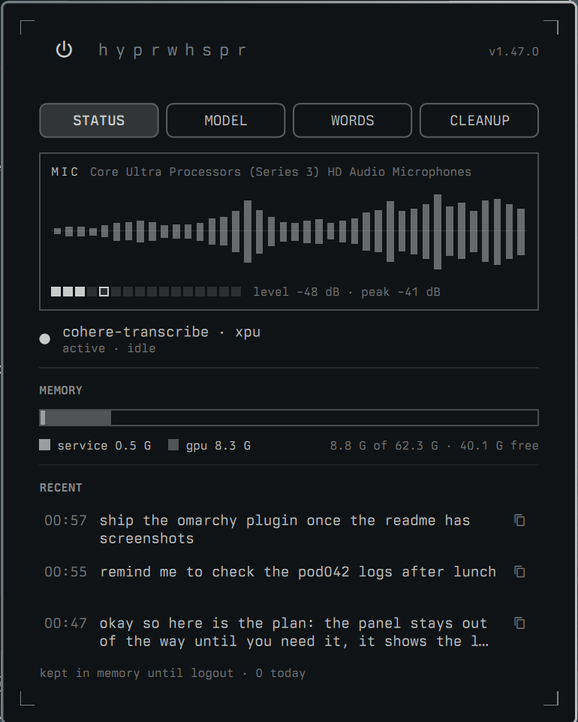
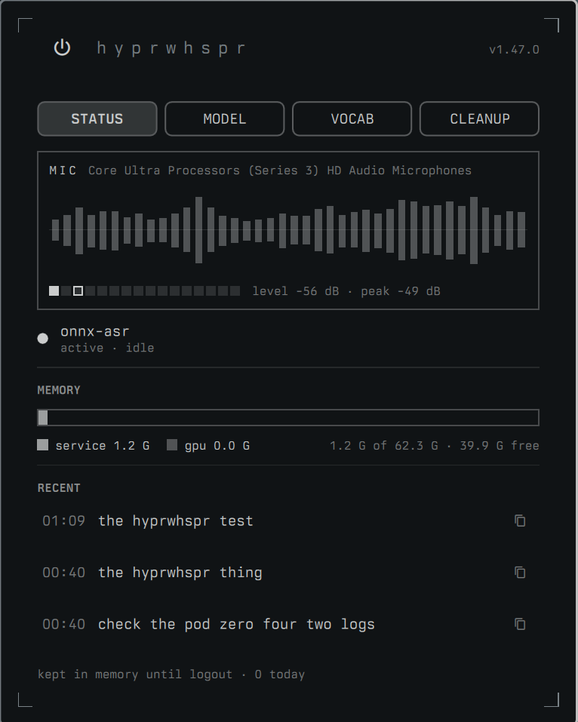
Rename Words to Vocab and fix lost vocab edits
Applying a change wrote the config through FileView.setText, which fires
no onLoaded for the panel's own write, so the next apply wrote the stale
config back and dropped earlier words. Read the written text back.

- Vocab: misheard field always visible, dimmed until used; no count line;
  row stays highlighted while hovering its trash can
- Status: fixed-height recent rows with immediate selection and wheel
  scrolling for long transcripts; teach popup opens upward near the edge
- bin/status no longer exits early when the service holds no GPU memory
- Status label drops the separator for backends without a device
- IPC function show renamed to open; qs reserves "show"

Amp-Thread-ID: https://ampcode.com/threads/T-01a10e96-e828-759a-843a-4dbf6fff79f1

diff --git a/StatusPage.qml b/StatusPage.qml
@@ -9,16 +9,7 @@ Column {
   required property var panel
   readonly property var status: panel.status
   readonly property var memory: status ? status.memory : null
-  // The RECENT row shown in full, or -1.
-  property int expanded: -1
   readonly property real rowPadding: Style.space(4)
-
-  function collapsedHeight(lines) { return lines * bodyMetrics.height + 2 * rowPadding }
-
-  Connections {
-    target: page.panel
-    function onRecentChanged() { page.expanded = -1 }
-  }
 
   FontMetrics {
     id: bodyMetrics
@@ -47,7 +38,7 @@ Column {
     Column {
       Text {
         text: page.status
-          ? page.panel.committed.backend + " · " + page.panel.committed.device
+          ? [page.panel.committed.backend, page.panel.committed.device].filter(Boolean).join(" · ")
           : "probing…"
         color: page.panel.fg
         font.family: page.panel.fontFamily
@@ -157,11 +148,13 @@ Column {
     fontFamily: page.panel.fontFamily
   }
 
-  // A fixed height, so expanding a transcript never resizes the panel.
+  // Rows never resize, so a click selects text where it lands; a long
+  // transcript scrolls inside its row.
   Item {
     id: recentBox
     width: parent.width
-    height: 3 * page.collapsedHeight(2) + 2 * recentList.spacing
+    height: 3 * entryHeight + 2 * recentList.spacing
+    readonly property real entryHeight: 2 * bodyMetrics.height + 2 * page.rowPadding
 
     Text {
       visible: page.panel.recent.length === 0
@@ -182,28 +175,16 @@ Column {
         Item {
           id: entry
           required property var modelData
-          required property int index
-          readonly property bool expanded: page.expanded === index
-          readonly property int others: page.panel.recent.length - 1
 
           width: recentList.width
-          height: expanded
-            ? Math.min(recentBox.height - others * (page.collapsedHeight(1) + recentList.spacing),
-                       body.contentHeight + 2 * page.rowPadding)
-            : page.collapsedHeight(page.expanded >= 0 ? 1 : 2)
+          height: recentBox.entryHeight
 
           Rectangle {
             anchors.fill: parent
-            color: entry.expanded || rowHover.containsMouse ? Style.hoverFillFor(page.panel.fg, Color.accent) : "transparent"
+            color: rowHover.hovered ? Style.hoverFillFor(page.panel.fg, Color.accent) : "transparent"
           }
 
-          MouseArea {
-            id: rowHover
-            anchors.fill: parent
-            hoverEnabled: true
-            cursorShape: entry.expanded ? Qt.ArrowCursor : Qt.PointingHandCursor
-            onClicked: page.expanded = entry.expanded ? -1 : entry.index
-          }
+          HoverHandler { id: rowHover }
 
           Text {
             id: time
@@ -215,22 +196,8 @@ Column {
             font.pixelSize: Style.font.body
           }
 
-          Text {
-            anchors.left: time.right
-            anchors.leftMargin: Style.space(10)
-            anchors.right: copy.left
-            y: page.rowPadding
-            visible: !entry.expanded
-            text: entry.modelData.text
-            wrapMode: Text.Wrap
-            maximumLineCount: page.expanded >= 0 ? 1 : 2
-            elide: Text.ElideRight
-            color: page.panel.fg
-            font.family: page.panel.fontFamily
-            font.pixelSize: Style.font.body
-          }
-
           Flickable {
+            id: scroller
             anchors.left: time.right
             anchors.leftMargin: Style.space(10)
             anchors.right: copy.left
@@ -238,10 +205,17 @@ Column {
             anchors.bottom: parent.bottom
             anchors.topMargin: page.rowPadding
             anchors.bottomMargin: page.rowPadding
-            visible: entry.expanded
             clip: true
+            interactive: false
             contentHeight: body.contentHeight
             boundsBehavior: Flickable.StopAtBounds
+
+            WheelHandler {
+              onWheel: function(event) {
+                scroller.contentY = Math.max(0, Math.min(scroller.contentHeight - scroller.height,
+                                                         scroller.contentY - event.angleDelta.y / 2))
+              }
+            }
 
             TextEdit {
               id: body
@@ -255,18 +229,29 @@ Column {
               selectedTextColor: page.panel.fg
               font.family: page.panel.fontFamily
               font.pixelSize: Style.font.body
+              onActiveFocusChanged: if (!activeFocus && !teach.opened) deselect()
 
               // Passive, so the TextEdit still makes the selection.
               PointHandler {
                 onActiveChanged: if (!active && body.selectedText.trim() !== "") teach.teach(body.selectedText.trim())
               }
             }
+          }
 
-            TeachPopup {
-              id: teach
-              panel: page.panel
-              onClosed: body.deselect()
-            }
+          TeachPopup {
+            id: teach
+            panel: page.panel
+            onClosed: body.deselect()
+          }
+
+          Text {
+            anchors.horizontalCenter: copy.horizontalCenter
+            anchors.bottom: scroller.bottom
+            visible: scroller.contentY + scroller.height < scroller.contentHeight - 1
+            text: "…"
+            color: page.panel.dim
+            font.family: page.panel.fontFamily
+            font.pixelSize: Style.font.body
           }
 
           Button {

diff --git a/Panel.qml b/Panel.qml
@@ -136,7 +136,11 @@ Panel {
     }
     if (wordsPending) next.word_overrides = orderedWords(stagedWords)
     stagedWords = null
-    configFile.setText(JSON.stringify(next, null, 2) + "\n")
+    // setText fires no onLoaded for the panel's own write, so read it back
+    // here; otherwise the next apply writes the old config over this one.
+    var text = JSON.stringify(next, null, 2) + "\n"
+    configFile.setText(text)
+    readConfig(text)
     waking = true
     Quickshell.execDetached(["systemctl", "--user", "restart", "hyprwhspr"])
   }
@@ -269,7 +273,7 @@ Panel {
   IpcHandler {
     target: "hyprwhspr"
 
-    function show(name: string): void {
+    function open(name: string): void {
       root.selectTab(name)
       root.open()
     }
@@ -420,7 +424,7 @@ Panel {
     owner: root.barIdentity
     bar: root.bar
     open: root.opened
-    focusTarget: root.tab === "words" ? wordsPage.focusItem : keyCatcher
+    focusTarget: root.tab === "vocab" ? wordsPage.focusItem : keyCatcher
     contentWidth: panel.fittedContentWidth(Style.space(480))
     contentHeight: panel.fittedContentHeight(content.implicitHeight + content.anchors.margins * 2)
 
@@ -505,7 +509,7 @@ Panel {
           options: [
             { value: "status", label: "STATUS" },
             { value: "model", label: "MODEL" + (root.pendingKeys.length ? " •" : "") },
-            { value: "words", label: "WORDS" + (root.wordsPending ? " •" : "") },
+            { value: "vocab", label: "VOCAB" + (root.wordsPending ? " •" : "") },
             { value: "cleanup", label: "CLEANUP" }
           ]
           onChanged: function(value) { root.selectTab(value) }
@@ -539,7 +543,7 @@ Panel {
             width: parent.width
             height: parent.height
             panel: root
-            opacity: root.tab === "words" ? 1 : 0
+            opacity: root.tab === "vocab" ? 1 : 0
             enabled: opacity === 1
           }
 

diff --git a/WordForm.qml b/WordForm.qml
@@ -2,14 +2,13 @@ import QtQuick
 import qs.Commons
 import qs.Ui
 
-// A word, and optionally what the model mishears it as. The same spelling
-// in both, ignoring case, is a plain vocabulary word.
+// A word, and optionally what the model mishears it as. Without a misheard
+// spelling it is a plain vocabulary word.
 Column {
   id: form
 
   required property var panel
   property string editingKey: ""
-  property bool misheardOpen: false
   readonly property Item input: wordField
   property alias word: wordField.text
   property alias misheard: misheardField.text
@@ -21,7 +20,6 @@ Column {
   function load(word, misheard, key) {
     wordField.text = word
     misheardField.text = misheard
-    misheardOpen = misheard !== ""
     editingKey = key
     focusWord()
   }
@@ -34,7 +32,6 @@ Column {
   function reset() {
     wordField.text = ""
     misheardField.text = ""
-    misheardOpen = false
     editingKey = ""
   }
 
@@ -87,27 +84,11 @@ Column {
     }
   }
 
-  Text {
-    text: (form.misheardOpen ? "" : "") + " misheard as" + (form.misheardOpen ? "" : "…")
-    color: form.panel.dim
-    font.family: form.panel.fontFamily
-    font.pixelSize: Style.font.caption
-
-    MouseArea {
-      anchors.fill: parent
-      cursorShape: Qt.PointingHandCursor
-      onClicked: {
-        form.misheardOpen = !form.misheardOpen
-        if (form.misheardOpen) misheardField.forceActiveFocus()
-      }
-    }
-  }
-
   TextField {
     id: misheardField
     width: wordField.width
-    visible: form.misheardOpen
-    placeholderText: "what it writes instead (optional)"
+    opacity: activeFocus || text !== "" ? 1 : 0.5
+    placeholderText: "misheard as (optional)"
     foreground: form.panel.fg
     font.family: form.panel.fontFamily
     onAccepted: form.submit()

diff --git a/WordsPage.qml b/WordsPage.qml
@@ -14,11 +14,8 @@ Item {
   }).sort(function(a, b) {
     return a.word.toLowerCase().localeCompare(b.word.toLowerCase()) || a.misheard.localeCompare(b.misheard)
   })
-  readonly property int corrections: entries.filter(function(e) { return e.misheard !== "" }).length
-  readonly property bool shown: panel.opened && panel.tab === "words"
+  readonly property bool shown: panel.opened && panel.tab === "vocab"
   readonly property Item focusItem: form.input
-
-  function plural(n, noun) { return n + " " + noun + (n === 1 ? "" : "s") }
 
   onShownChanged: if (shown) Qt.callLater(form.focusWord)
 
@@ -37,13 +34,6 @@ Item {
         if (word === "" && misheard === "") page.panel.close()
         else reset()
       }
-    }
-
-    Text {
-      text: page.plural(page.entries.length - page.corrections, "word") + " · " + page.plural(page.corrections, "correction")
-      color: page.panel.dim
-      font.family: page.panel.fontFamily
-      font.pixelSize: Style.font.caption
     }
 
     PanelSeparator { width: parent.width }
@@ -73,7 +63,7 @@ Item {
       required property var modelData
       width: ListView.view.width
       height: Style.spacing.popupRowHeight
-      color: hover.containsMouse || form.editingKey === modelData.key
+      color: hover.containsMouse || trash.hot || form.editingKey === modelData.key
         ? Style.hoverFillFor(page.panel.fg, Color.accent) : "transparent"
 
       MouseArea {

diff --git a/TeachPopup.qml b/TeachPopup.qml
@@ -13,8 +13,7 @@ Popup {
   property bool opensUp: false
 
   function teach(selection) {
-    form.load(selection, selection, "")
-    form.misheardOpen = true
+    form.load(selection, "", "")
     open()
   }
 
@@ -36,22 +35,10 @@ Popup {
     radius: Style.cornerRadius
   }
 
-  contentItem: Column {
-    spacing: Style.space(8)
-
-    WordForm {
-      id: form
-      width: parent.width
-      panel: popup.panel
-      onSubmitted: popup.close()
-      onCancelled: popup.close()
-    }
-
-    Text {
-      text: "same spelling saves a vocabulary word · ↵ add · esc cancel"
-      color: popup.panel.dim
-      font.family: popup.panel.fontFamily
-      font.pixelSize: Style.font.caption
-    }
+  contentItem: WordForm {
+    id: form
+    panel: popup.panel
+    onSubmitted: popup.close()
+    onCancelled: popup.close()
   }
 }

diff --git a/README.md b/README.md
@@ -2,9 +2,9 @@
 
 An [Omarchy](https://omarchy.org) bar widget and panel for [hyprwhspr](https://github.com/goodroot/hyprwhspr) dictation: a live mic check, the last few transcripts, model switching, vocabulary, and LLM cleanup of what you said before it gets typed.
 
-| Status | Model | Words | Cleanup |
+| Status | Model | Vocab | Cleanup |
 | --- | --- | --- | --- |
-| ![Status](screenshots/status.png) | ![Model](screenshots/model.png) | ![Words](screenshots/words.png) | ![Cleanup](screenshots/cleanup.png) |
+| ![Status](screenshots/status.png) | ![Model](screenshots/model.png) | ![Vocab](screenshots/vocab.png) | ![Cleanup](screenshots/cleanup.png) |
 
 ## Prerequisites
 
@@ -38,14 +38,14 @@ The widget sits on the bar as a microphone. It stays dim while the model is unlo
 
 - **Mic check.** A live spectrum of the default input, running whenever the panel is open, whether or not hyprwhspr is recording. If the bars move when you talk, hyprwhspr can hear you.
 - **Memory.** What the service and its GPU allocations are holding.
-- **Recent.** The last three transcripts, each with a copy button, for when a paste lands in the wrong window. Click a row to expand it. Select text in an expanded row to teach a word (see Words). These live in `$XDG_RUNTIME_DIR` and are gone at logout.
+- **Recent.** The last three transcripts, each with a copy button, for when a paste lands in the wrong window. Long transcripts scroll within their row. Select text in a row to teach a word (see Vocab). These live in `$XDG_RUNTIME_DIR` and are gone at logout.
 - **Power.** The button beside the title loads or unloads the model, and pulses while it wakes. Right-click it to set the auto-hibernate timer.
 
 ### Model
 
 Pick the transcription backend, device, recording mode, and language. hyprwhspr only reads its config at startup, so changes are applied with one service restart, either from **Apply now** or automatically when you leave the tab or close the panel. Right-click a downloaded model to remove its files.
 
-### Words
+### Vocab
 
 Teach hyprwhspr uncommon words and proper nouns.
 
